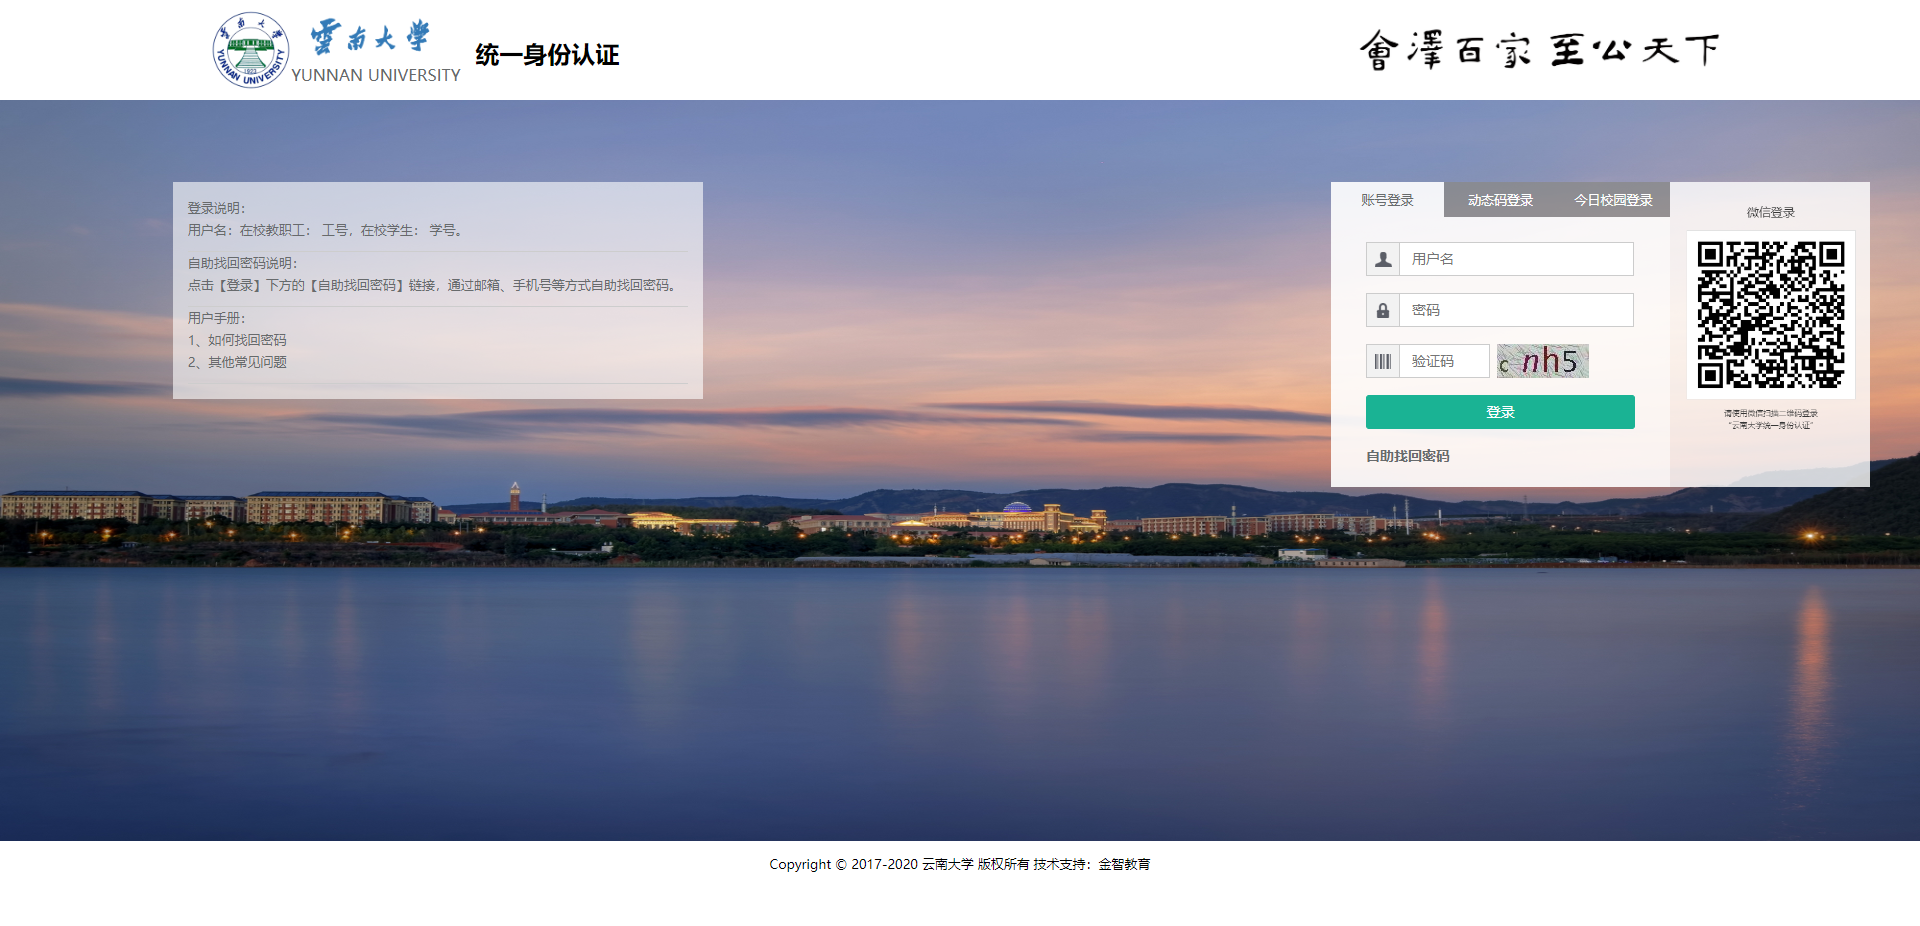
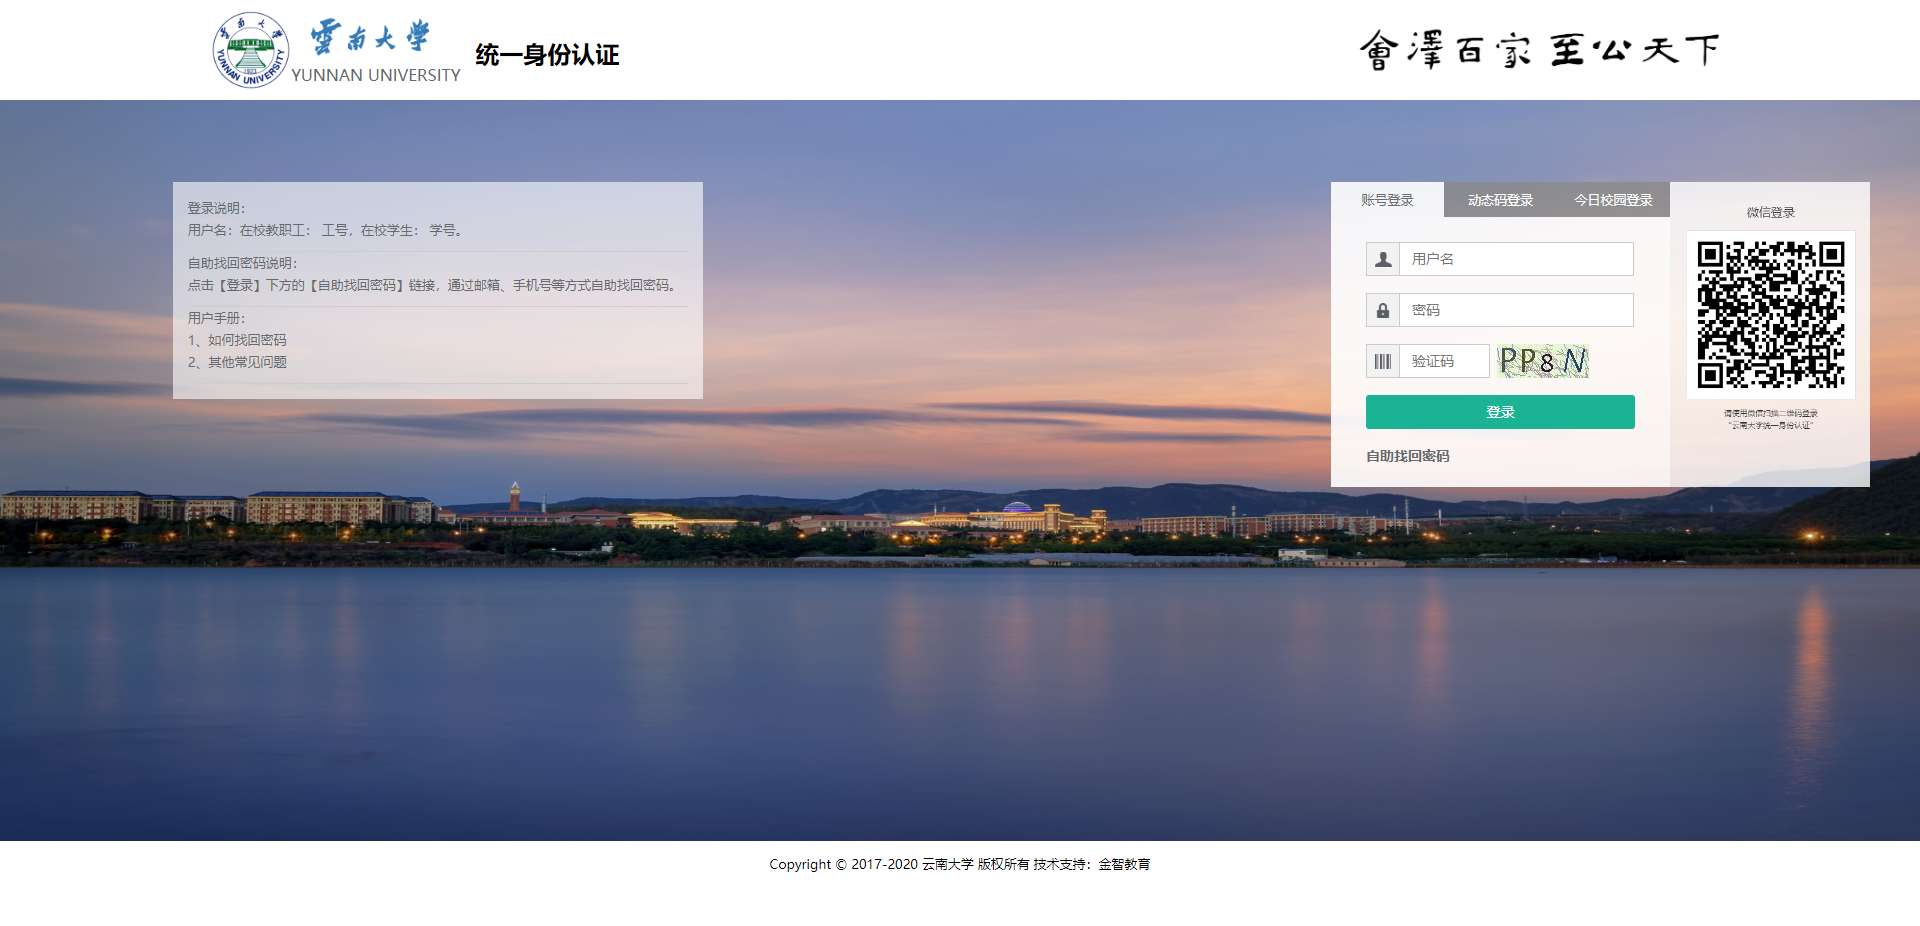
add urp verification

Changed region(s): [[0.875, 0.2419, 0.9688, 0.4233], [0.7812, 0.3629, 0.8438, 0.4233]]

diff --git a/backend/verify_student.py b/backend/verify_student.py
@@ -1,0 +1,85 @@
+"""
+author:sqa
+time:2020/6/2 12:29
+
+"""
+import requests
+from PIL import Image
+from hashlib import md5
+from selenium import webdriver
+url = 'https://ids.ynu.edu.cn/authserver/login?service=http%3A%2F%2Fehall.ynu.edu.cn%2Flogin%3Fservice%3Dhttp%3A%2F%2Fehall.ynu.edu.cn%2Fnew%2Findex.html'
+import requests
+class Chaojiying_Client(object):
+
+    def __init__(self, username, password, soft_id):
+        self.username = username
+        self.password =  password.encode('utf8')
+        self.password = md5(self.password).hexdigest()
+        self.soft_id = soft_id
+        self.base_params = {
+            'user': self.username,
+            'pass2': self.password,
+            'softid': self.soft_id,
+        }
+        self.headers = {
+            'Connection': 'Keep-Alive',
+            'User-Agent': 'Mozilla/4.0 (compatible; MSIE 8.0; Windows NT 5.1; Trident/4.0)',
+        }
+
+    def PostPic(self, im, codetype):
+        """
+        im: 图片字节
+        codetype: 题目类型 参考 http://www.chaojiying.com/price.html
+        """
+        params = {
+            'codetype': codetype,
+        }
+        params.update(self.base_params)
+        files = {'userfile': ('ccc.jpg', im)}
+        r = requests.post('http://upload.chaojiying.net/Upload/Processing.php', data=params, files=files, headers=self.headers)
+        return r.json()
+
+    def ReportError(self, im_id):
+        """
+        im_id:报错题目的图片ID
+        """
+        params = {
+            'id': im_id,
+        }
+        params.update(self.base_params)
+        r = requests.post('http://upload.chaojiying.net/Upload/ReportError.php', data=params, headers=self.headers)
+        return r.json()
+
+def verify_student(username,password):
+    driver = webdriver.Chrome(executable_path='D:\只狼\chromedriver.exe')  # 调用带参数的谷歌浏览器
+    driver.get(url)
+    driver.maximize_window()
+    driver.save_screenshot('E:\\All Codes\\Github\\iCourse-master\\backend\\pic\\1.png')
+    driver.find_element_by_id('username').send_keys(username)
+    driver.find_element_by_id('password').send_keys(password)
+    captchaimg = driver.find_element_by_id('captchaImg')
+    left = captchaimg.location['x']
+    top = captchaimg.location['y']
+    elementWidth = captchaimg.location['x'] + captchaimg.size['width']
+    elementHeight = captchaimg.location['y'] + captchaimg.size['height']
+    picture = Image.open('E:\\All Codes\\Github\\iCourse-master\\backend\\pic\\1.png')
+    picture = picture.crop((left, top, elementWidth, elementHeight))
+    picture.save('E:\\All Codes\\Github\\iCourse-master\\backend\\pic\\2.png')
+    chaojiying = Chaojiying_Client('lrtsqa', 'lrtsqa1314', '905592')
+    im = open('E:\\All Codes\\Github\\iCourse-master\\backend\\pic\\2.png',
+              'rb').read()  # 本地图片文件路径 来替换 a.jpg 有时WIN系统须要//
+    result = chaojiying.PostPic(im, 1902)['pic_str']
+    driver.find_element_by_xpath('//*[@id="captchaResponse"]').send_keys(result)
+    driver.find_element_by_tag_name('button').click()
+    try:
+        driver.find_element_by_xpath(
+            '//*[@id="msg"]')
+        print(2)
+        driver.quit()
+        return False
+    except :
+        print(1)
+        driver.quit()
+        return True
+if __name__ == '__main__':
+    verify_student('20171120028','lrtsqa1314A')

diff --git a/backend/views.py b/backend/views.py
@@ -15,6 +15,7 @@ from django.views.generic.base import View
 from django.shortcuts import render
 from .email_send import *
 from .course_crawler import *
+from .verify_student import *
 import requests
 import urllib.request
 import json
@@ -2120,7 +2121,7 @@ def resource_query(
                 ans.append(i['id'])
         return HttpResponse(json.dumps({'query_list': ans}, cls=ComplexEncoder))
 
-
+# coursetable/
 @csrf_exempt
 def course_table(request):
     if request.method == "POST":
@@ -2233,3 +2234,21 @@ def json_field(field_data):
         return "\"\""
     else:
         return "\"" + str(field_data) + "\""
+
+# studentnotifications/
+@csrf_exempt
+def verify_studentid(request):
+    if request.method == "POST":
+        data = json.loads(request.body)
+        # print(data)
+        student_id = data['username']
+        student_password = data['password']
+        result_bool = verify_studentid(student_id,student_password)
+        if result_bool:
+            user = User.objects.filter(id=data['id']).first()
+            user.studentid=student_id
+            user.studentpassword=student_password
+            user.save()
+            return HttpResponse(json.dumps({'result':True}))
+        else:
+            return HttpResponse(json.dumps({'result':False}))
